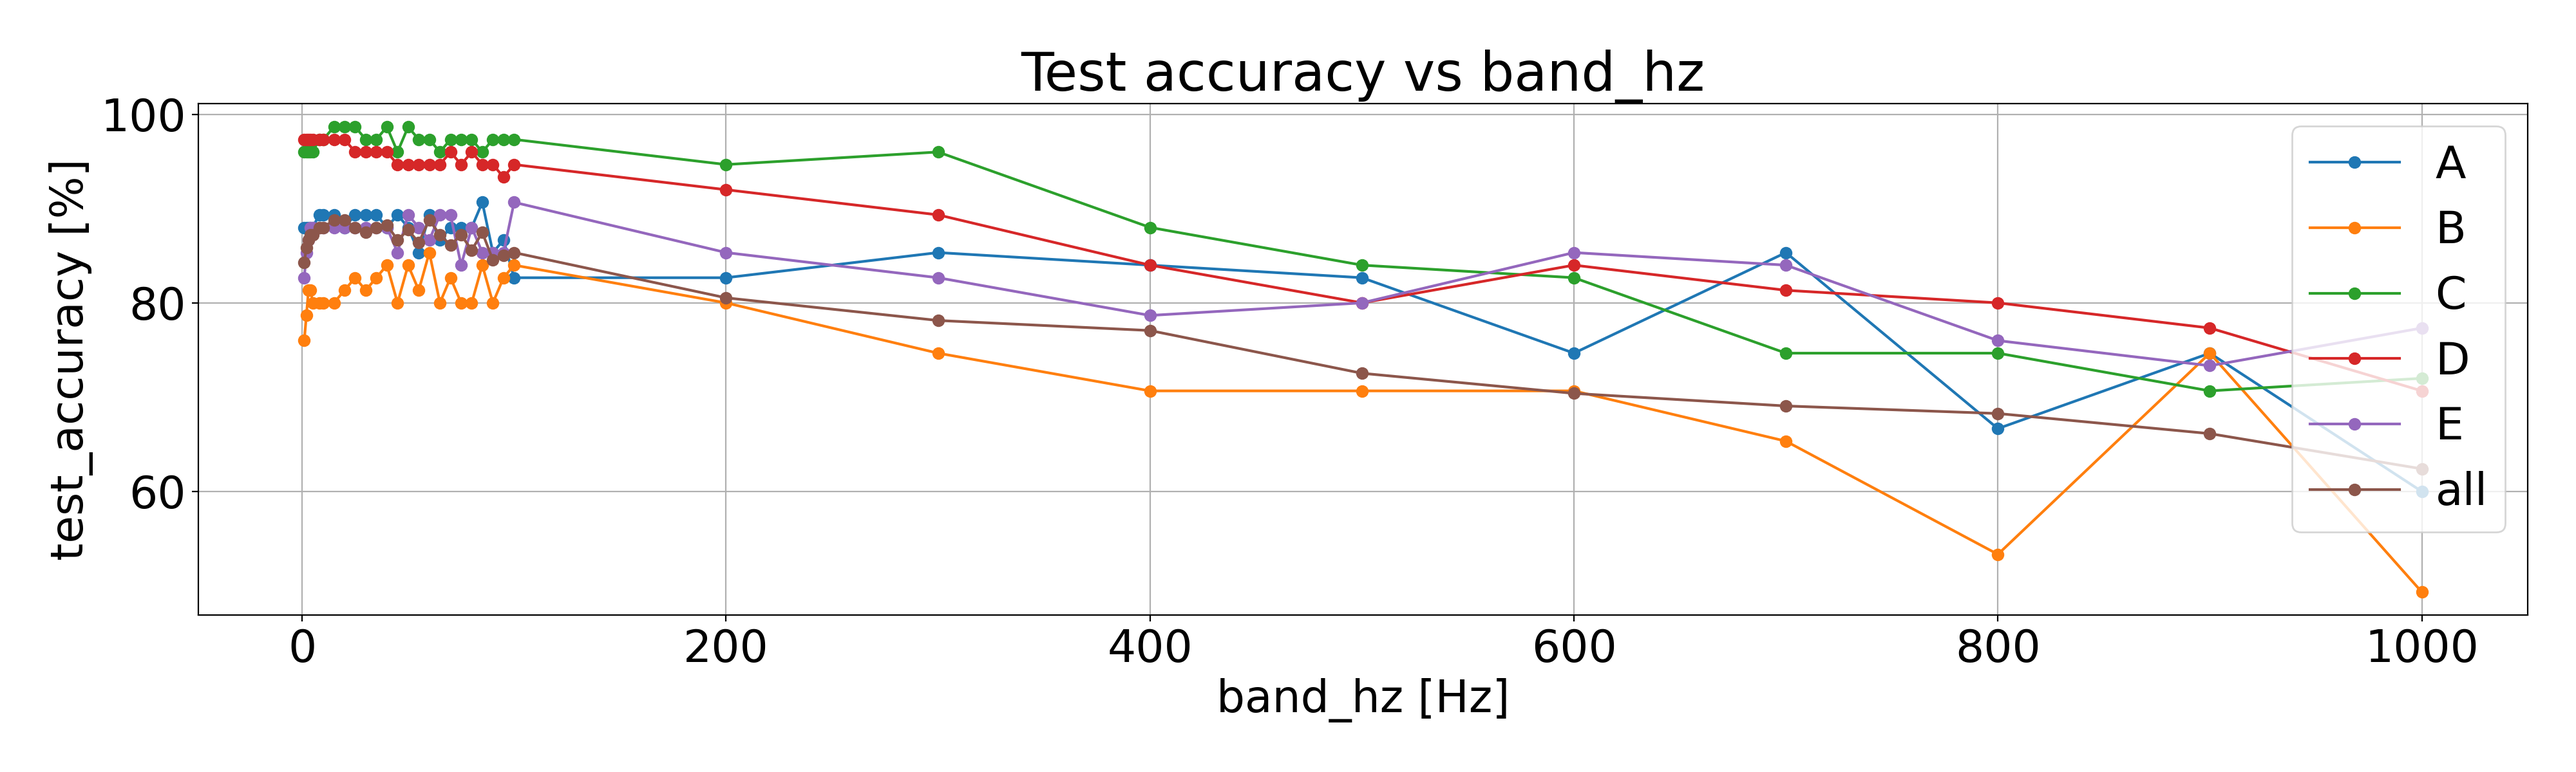
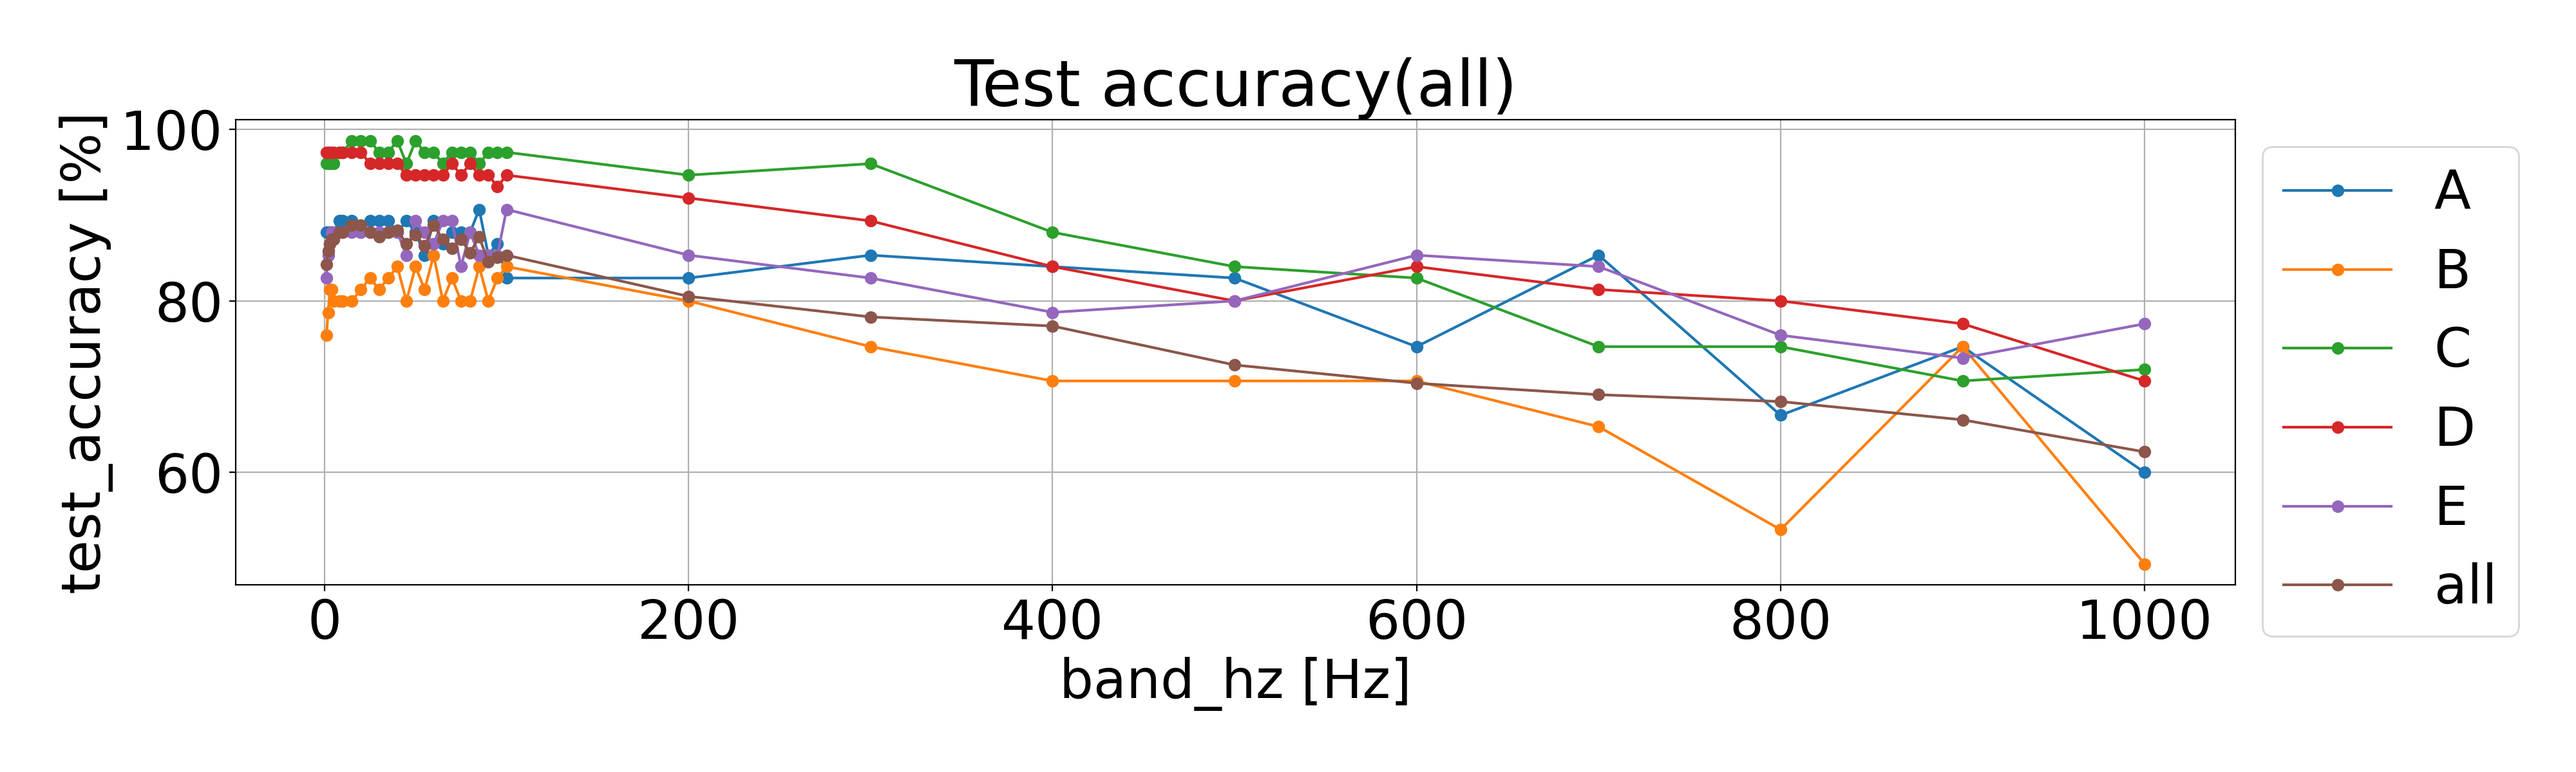
1/20　進捗②
スライド用の修正を実施

diff --git a/Sound/accuracyGraph.py b/Sound/accuracyGraph.py
@@ -35,7 +35,7 @@ def plot_range(title: str, out_png: str, lo: float, hi: float | None):
     lo <= band_hz <= hi でプロット（hi=Noneなら band_hz > lo をプロット）
     """
     plt.figure(figsize=(20,6))
-    plt.rcParams["font.size"] = 25
+    plt.rcParams["font.size"] = 26
     any_plotted = False
 
     for label, csv_path in zip(labels, CSV_LIST):
@@ -59,11 +59,11 @@ def plot_range(title: str, out_png: str, lo: float, hi: float | None):
         plt.plot(dff["band_hz"], dff["test_accuracy"] * 100.0, marker="o", label=label)
         any_plotted = True
 
-    plt.xlabel("band_hz [Hz]")
-    plt.ylabel("test_accuracy [%]")
-    plt.title(title)
+    plt.xlabel("band_hz [Hz]", fontsize=30)
+    plt.ylabel("test_accuracy [%]", fontsize=30)
+    plt.title(title,  fontsize=30)
     plt.grid(True)
-    #plt.legend()
+    plt.legend(bbox_to_anchor=(1, 1), loc='upper left')
     plt.tight_layout()
 
     if any_plotted:
@@ -77,7 +77,7 @@ def plot_range(title: str, out_png: str, lo: float, hi: float | None):
 
 # 1) 0〜100Hz
 plot_range(
-    title="Test accuracy vs band_hz (0-100Hz)",
+    title="Test accuracy(0-100Hz)",
     out_png="band_test_accuracy_0_100.png",
     lo=0.0,
     hi=100.0,
@@ -85,7 +85,7 @@ plot_range(
 
 # 2) 100Hzより大きい
 plot_range(
-    title="Test accuracy vs band_hz (>100Hz)",
+    title="Test accuracy(>100Hz)",
     out_png="band_test_accuracy_over_100.png",
     lo=100.0,
     hi=None,
@@ -93,7 +93,7 @@ plot_range(
 
 # ===== 描画 =====
 plt.figure(figsize=(20,6))
-plt.rcParams["font.size"] = 25
+plt.rcParams["font.size"] = 30
 
 for label, csv_path in zip(labels, CSV_LIST):
     csv_path = csv_path.replace("￥", "\\")  # 念のため全角￥を吸収
@@ -112,9 +112,9 @@ for label, csv_path in zip(labels, CSV_LIST):
 
 plt.xlabel("band_hz [Hz]")
 plt.ylabel("test_accuracy [%]")
-plt.title("Test accuracy vs band_hz")
+plt.title("Test accuracy(all)")
 plt.grid(True)
-plt.legend()
+plt.legend(bbox_to_anchor=(1, 1), loc='upper left')
 plt.tight_layout()
 
 out_png = Path("band_test_accuracy_compare.png")

diff --git a/RealSense/faceTrain_SVM_grid.py b/RealSense/faceTrain_SVM_grid.py
@@ -220,13 +220,14 @@ def plot_results(results_by_subject: dict, grids: list[int], out_png: Path):
         mean_ys.append(float(np.mean(vals)) if len(vals) > 0 else np.nan)
 
     plt.plot(grids, mean_ys, marker="o", linewidth=3)
-    plt.rcParams["font.size"] = 18
 
-    plt.xlabel("GRID size")
-    plt.ylabel("Test Accuracy")
-    plt.title("Grid Sweep Accuracy")
+    plt.xlabel("GRID size", fontsize=30)
+    plt.ylabel("Test Accuracy", fontsize=30)
+    plt.title("Grid Sweep Accuracy", fontsize=30)
+    plt.xticks(fontsize=25)
+    plt.yticks(fontsize=25)
     plt.grid(alpha=0.3)
-    plt.legend()
+    #plt.legend()
     plt.tight_layout()
     plt.savefig(out_png, dpi=200)
     plt.close()

diff --git a/RealSense/PLYgraph2.py b/RealSense/PLYgraph2.py
@@ -69,8 +69,8 @@ def main():
     axes[2].tick_params(axis="both", labelsize=20); axes[2].grid(alpha=0.2)
 
     # 重ね描き対象が複数のため凡例を表示（重なる場合は適宜調整してください）
-    for ax in axes:
-        ax.legend(fontsize=10, loc="best")
+    # for ax in axes:
+    #     ax.legend(fontsize=10, loc="best")
 
     plt.tight_layout()
     plt.show()
